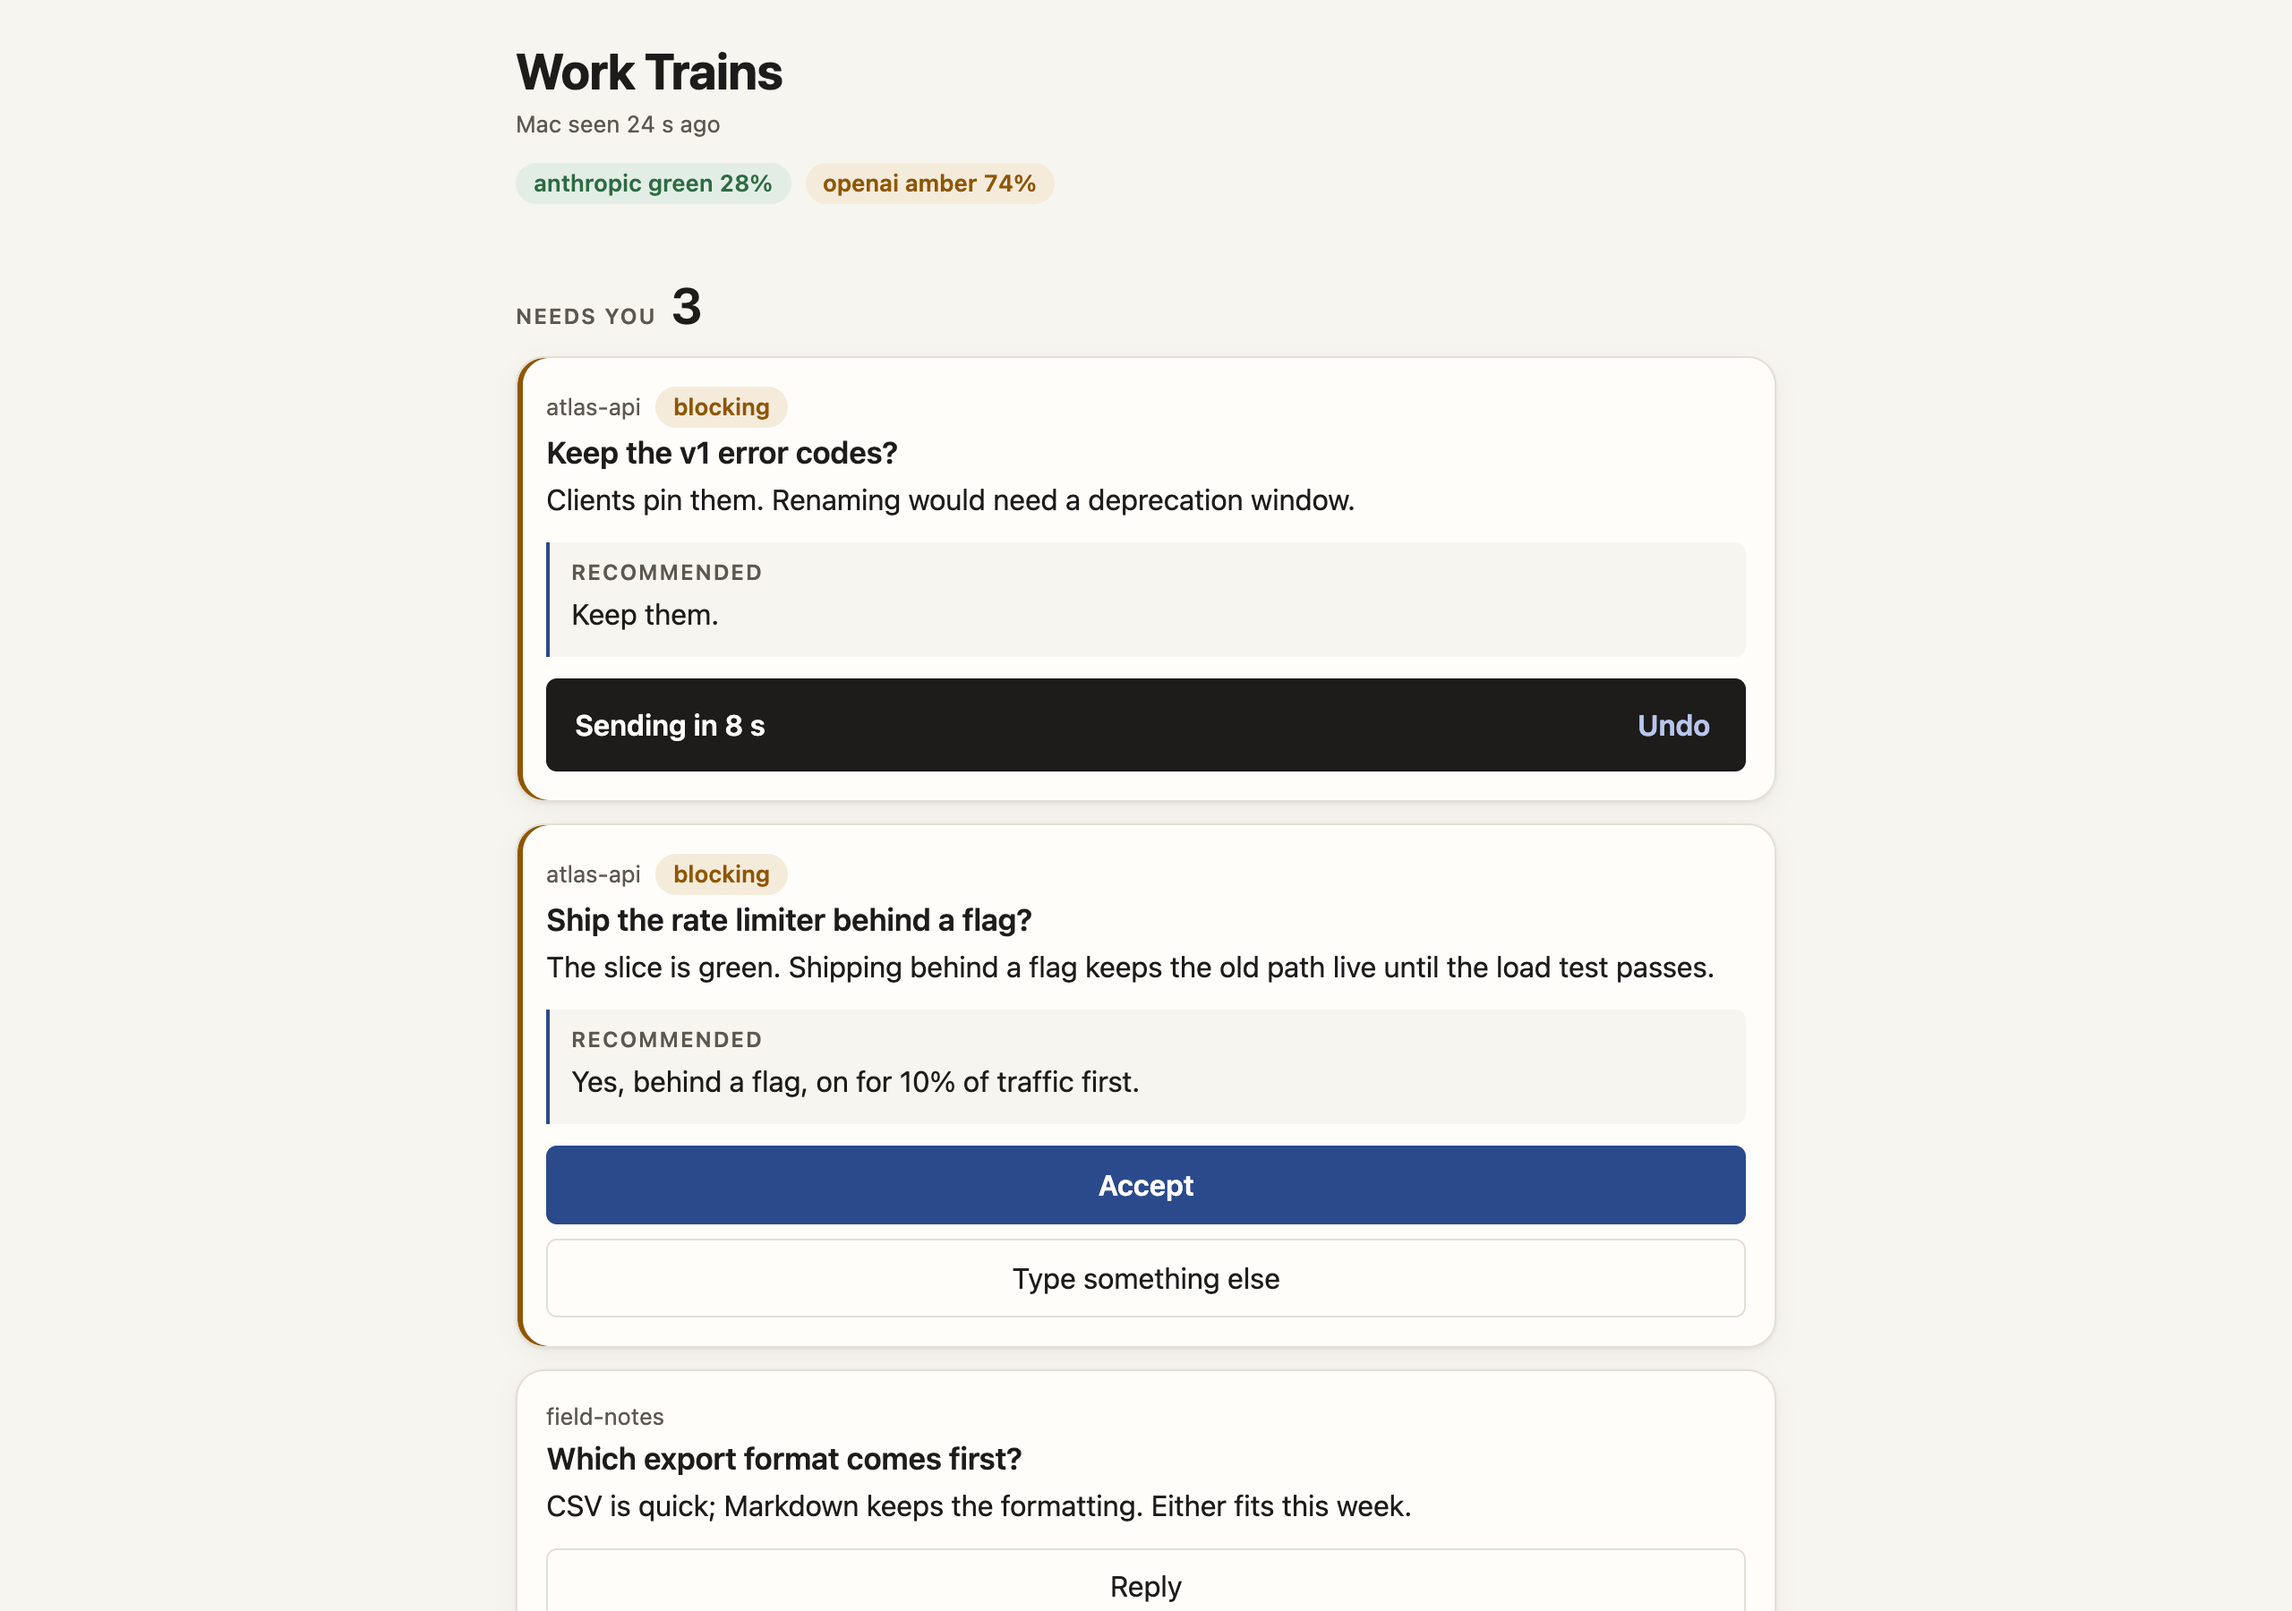
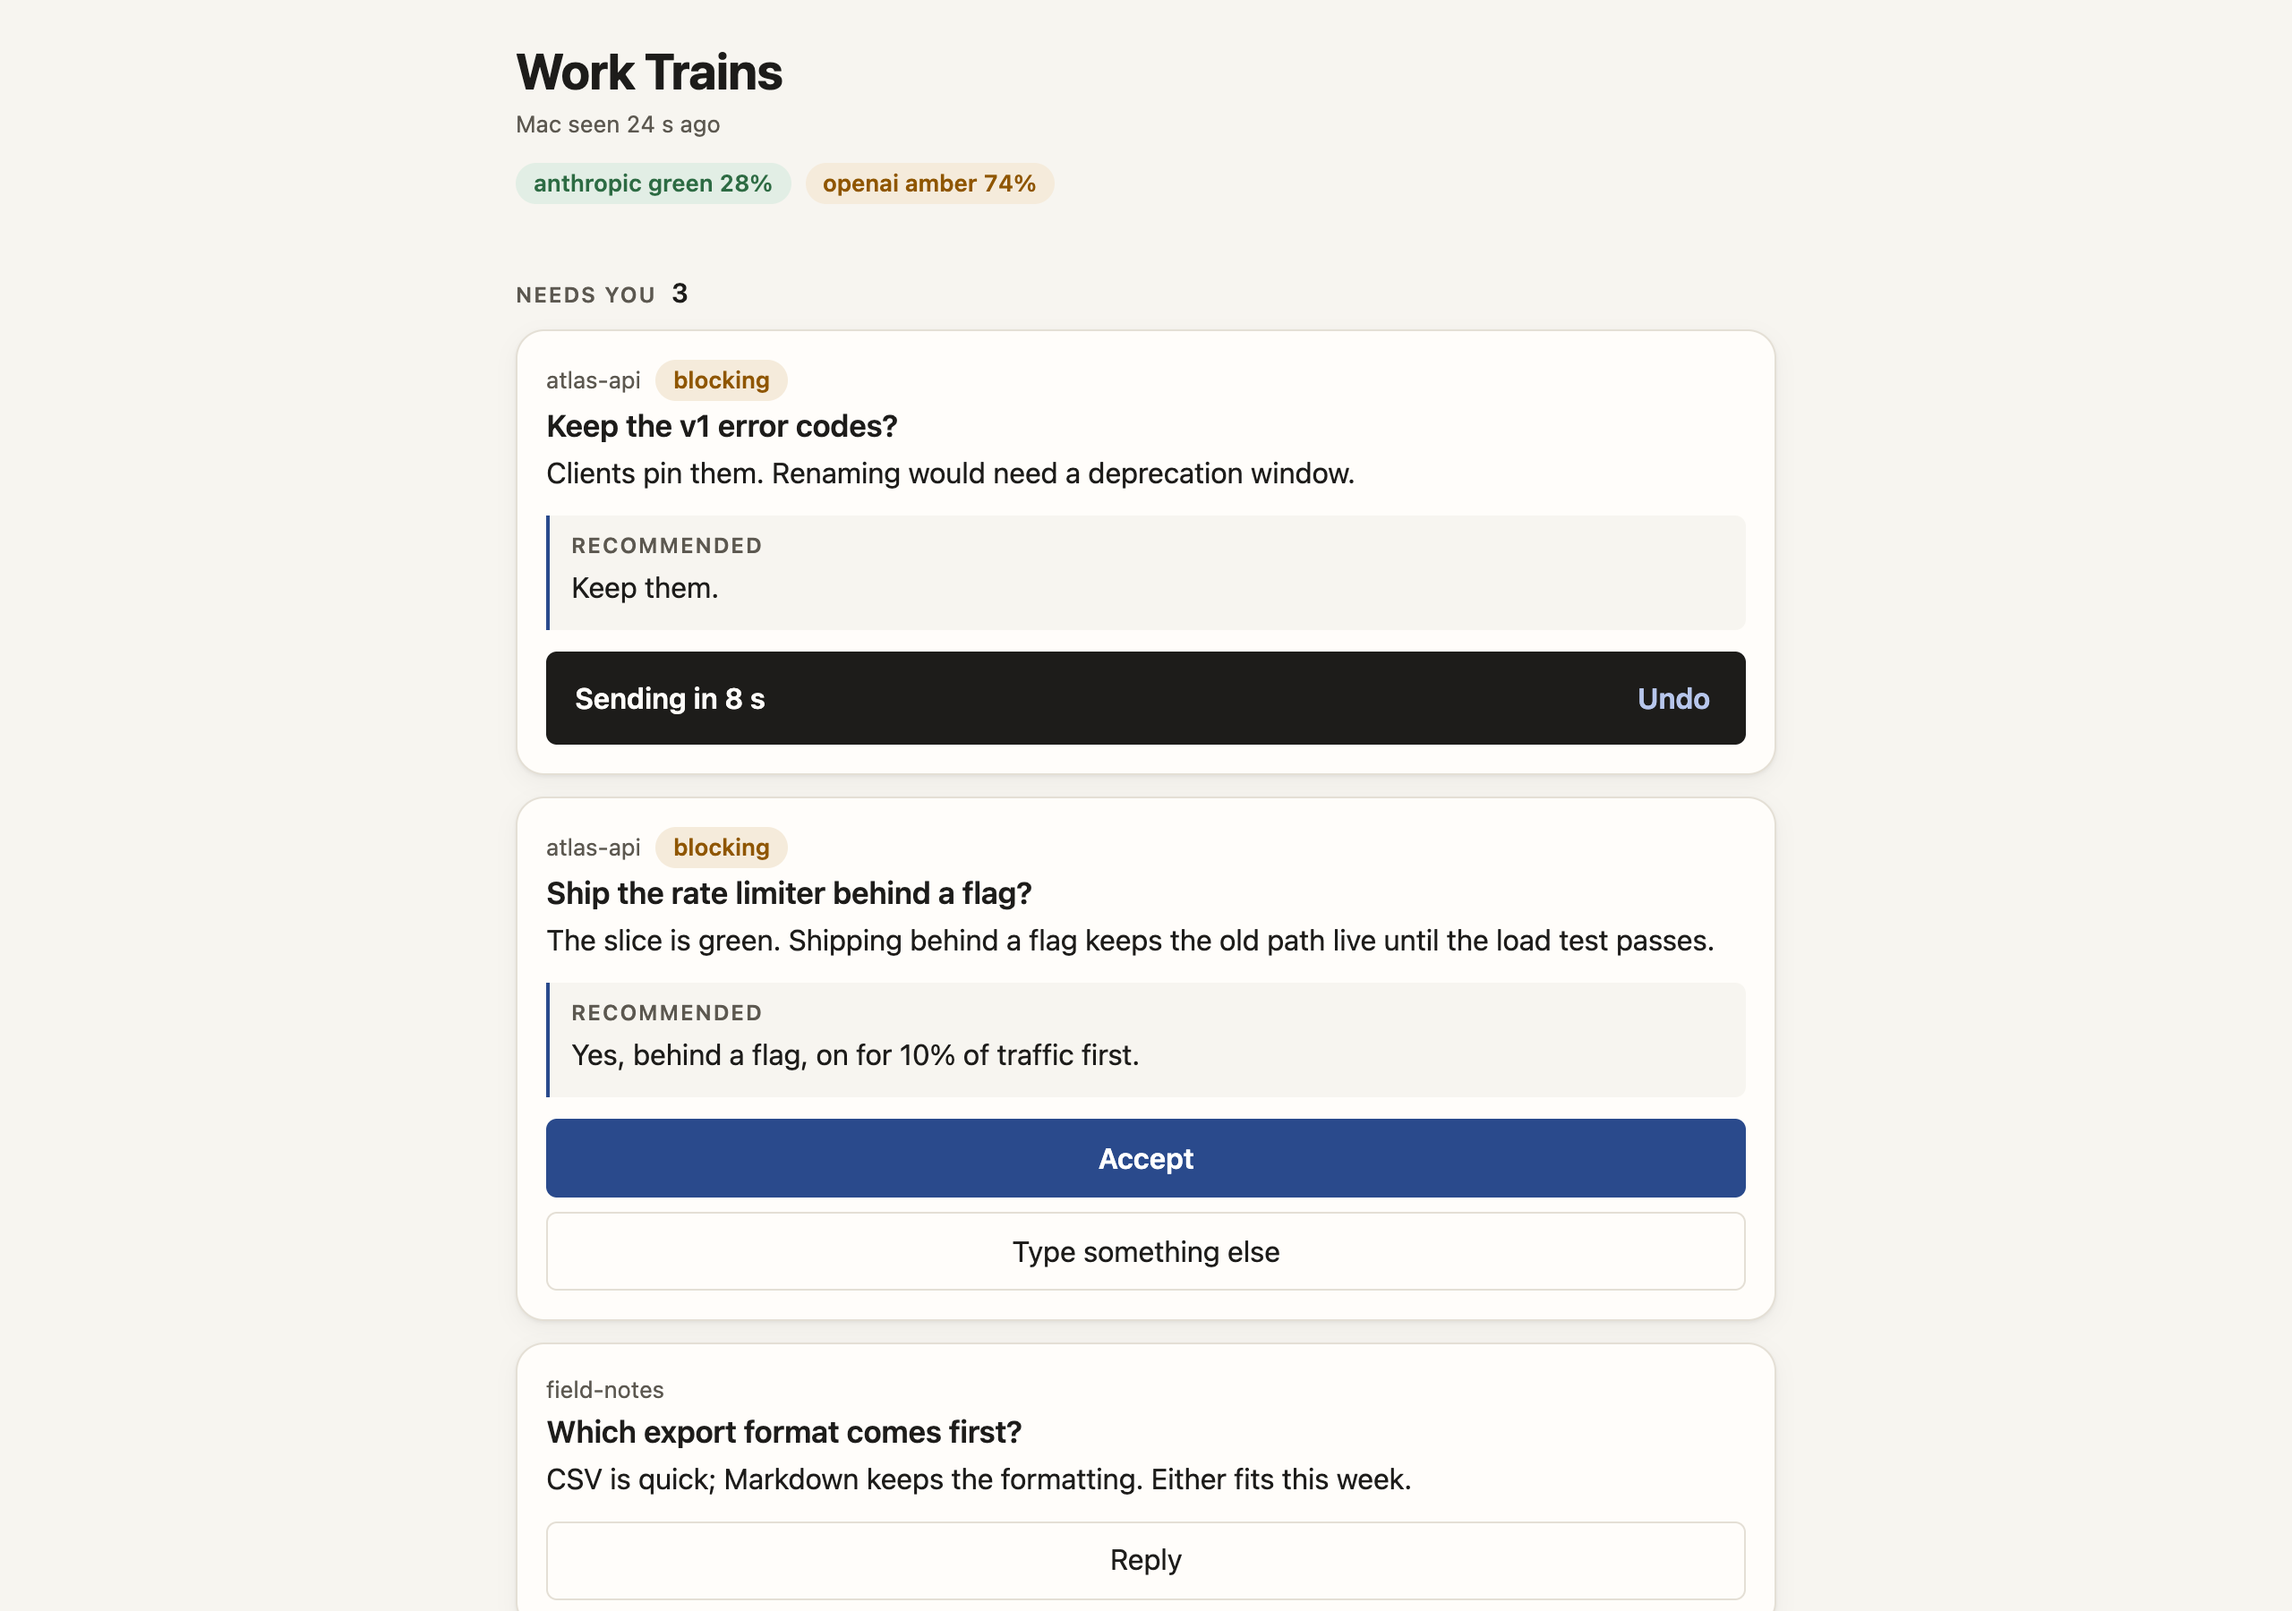
fix(remote): WT22-B review fixes: prune open Recent events, known-state classes only, calmer blocking card and Needs-you count
- Forget an open Recent events once its project leaves the summary (F1).
- A state the page does not know gets no state-* class on its pill or bar (F2).
- Test that every :root colour token appears in a contrast pair (F3).
- Drop the blocking card's amber edge (the blocking pill says it) and size the
  Needs-you count to sit with its label. Regenerated the after/ screenshots.

Changed region(s): [[0.2188, 0.1556, 0.7812, 0.9956]]

diff --git a/remote/worker/test/ui-page.test.ts b/remote/worker/test/ui-page.test.ts
@@ -132,3 +132,34 @@ test("Recent events opened by the owner stay open across the next re-render", as
   assert.ok(reopened);
   assert.equal(reopened.open, true);
 });
+
+test("an open Recent events is forgotten once its project leaves the summary, so it comes back closed", async () => {
+  const summary = summaryWithProject();
+  const project = summary.projects[0];
+  let returned: FakeNode | undefined;
+  await pageShowing(summary, PAGE_ORIGIN, (document) => {
+    const rerender = () => document.getElementById("hidden-toggle").dispatch("click");
+    const [events] = document.getElementById("project-list").findAll(byTag("details"));
+    events.open = true;
+    events.dispatch("toggle");
+    // The page keeps the summary it was served, so changing its projects and re-rendering stands in
+    // for a poll that no longer carries the project, then one that carries it again.
+    summary.projects = [];
+    rerender();
+    summary.projects = [project];
+    rerender();
+    [returned] = document.getElementById("project-list").findAll(byTag("details"));
+  });
+  assert.ok(returned);
+  assert.equal(returned.open, false);
+});
+
+test("a project state the page does not know gets no state class on its pill or progress bar", async () => {
+  const summary = summaryWithProject();
+  summary.projects[0].state = "rebooting";
+  const projects = (await pageShowing(summary)).getElementById("project-list");
+  const pill = projects.findAll((node) => classOf(node)?.startsWith("pill") ?? false);
+  const progress = projects.findAll((node) => classOf(node)?.startsWith("progress") ?? false);
+  assert.deepEqual([...pill, ...progress].map(classOf), ["pill", "progress"]);
+  assert.equal(pill[0].textContent, "rebooting");
+});

diff --git a/remote/worker/public/app.js b/remote/worker/public/app.js
@@ -291,7 +291,7 @@ function questionCard({ projectName, question }) {
   const headingId = `q-${question.id}`;
   return el(
     "article",
-    { class: `card question${question.blocking ? " blocking" : ""}`, "aria-labelledby": headingId },
+    { class: "card question", "aria-labelledby": headingId },
     el("p", { class: "eyebrow" }, projectName, question.blocking ? el("span", { class: "badge" }, "blocking") : null),
     el("h3", { id: headingId }, question.subject),
     questionBody(question),
@@ -454,6 +454,8 @@ function noteLine(key) {
 }
 
 function renderProjects(projects) {
+  const keys = new Set(projects.map((project) => project.key));
+  for (const key of page.openEvents) if (!keys.has(key)) page.openEvents.delete(key);
   const { shown, hidden } = model.partitionByVisibility(projects);
   setChildren(
     $("project-list"),
@@ -477,7 +479,7 @@ function projectCard(project) {
       "div",
       { class: "title-row" },
       el("h3", { id: headingId }, project.name),
-      el("span", { class: `pill state-${project.state}` }, model.stateLabel(project.state)),
+      el("span", { class: `pill ${model.stateClass(project.state)}`.trim() }, model.stateLabel(project.state)),
       project.hidden ? unhideButton(project) : overflowMenu(project),
     ),
     project.state_reason ? el("p", { class: "reason" }, project.state_reason) : null,
@@ -509,7 +511,7 @@ function progressLine(progress, state) {
   if (text === null) return null;
   return el(
     "div",
-    { class: `progress state-${state}` },
+    { class: `progress ${model.stateClass(state)}`.trim() },
     el("progress", {
       max: String(progress.total),
       value: String(Math.min(progress.done, progress.total)),

diff --git a/remote/worker/test/ui-model.test.ts b/remote/worker/test/ui-model.test.ts
@@ -164,6 +164,12 @@ test("CI lines name the run and its outcome", () => {
   assert.equal(model.ciLine({ ...run, workflow: "" }), "example/app: failure");
 });
 
+test("only a known state has a state class", () => {
+  for (const state of ["needs_you", "working", "paused", "failed", "done", "idle"])
+    assert.equal(model.stateClass(state), `state-${state}`);
+  for (const state of ["rebooting", "", "toString", "__proto__"]) assert.equal(model.stateClass(state), "", state);
+});
+
 test("a CI run's tone is red only for a real failure, and neutral for anything without an outcome", () => {
   const tone = (status: string, conclusion: string | null) =>
     model.ciTone({ repo: "example/app", workflow: "ci", status, conclusion, url: null, at: "" });

diff --git a/remote/worker/test/ui-contrast.test.ts b/remote/worker/test/ui-contrast.test.ts
@@ -72,6 +72,12 @@ test("every colour pair the page draws meets its WCAG AA minimum", (t) => {
     assert.ok(row.ratio >= row.minimum, `${row.fg} on ${row.bg} is ${row.ratio.toFixed(2)}:1, below ${row.minimum}:1`);
 });
 
+test("every colour token in :root is checked in at least one pair", () => {
+  const paired = new Set(PAIRS.flatMap(([fg, bg]) => [fg, bg]));
+  const unpaired = [...rootColours().keys()].filter((name) => !paired.has(name));
+  assert.deepEqual(unpaired, [], "add a pair for each new colour token");
+});
+
 test("the contrast formula matches WCAG's reference values", () => {
   assert.equal(contrast("#000000", "#ffffff"), 21);
   assert.equal(contrast("#ffffff", "#ffffff"), 1);

diff --git a/remote/worker/public/app.css b/remote/worker/public/app.css
@@ -119,9 +119,8 @@ h2 {
   margin: var(--space-6) 0 var(--space-3);
 }
 
-/* The Needs-you count is the one big number on the page. */
 #needs-you-count {
-  font-size: var(--text-headline);
+  font-size: 0.9375rem;
   letter-spacing: 0;
   color: var(--ink);
 }
@@ -248,12 +247,6 @@ p {
   box-shadow: var(--shadow-card);
   padding: var(--space-4);
   margin: 0 0 var(--space-3);
-}
-
-.question.blocking {
-  box-shadow:
-    inset 3px 0 0 var(--needs),
-    var(--shadow-card);
 }
 
 .eyebrow {

diff --git a/remote/worker/public/model.js b/remote/worker/public/model.js
@@ -104,6 +104,11 @@ export function stateLabel(state) {
   return STATE_LABELS[state] ?? state;
 }
 
+/** A known state's tone class; an unknown state gets none. */
+export function stateClass(state) {
+  return Object.hasOwn(STATE_LABELS, state) ? `state-${state}` : "";
+}
+
 export function runKindLabel(run) {
   return run.kind === "none" ? "no run" : run.kind;
 }

diff --git a/CHANGELOG.md b/CHANGELOG.md
@@ -5,7 +5,7 @@
 - remote: the Work Trains page is restyled, light only (WT22-B): a warm off-white ground, one accent for Accept,
   Send, Retry, links and the focus ring, and colour only for status (a dot and a word on a tint per project, the
   progress bar in the project's state colour, a dot per CI run that is red only for a real failure). The Needs-you
-  count is a large plain number (`3`, not `(3)`); beside a recommendation the second button reads **Type something
+  count is a plain number (`3`, not `(3)`); beside a recommendation the second button reads **Type something
   else**; the undo window is a dark bar inside its card; a stale Mac is amber, not red. Projects sit as rows on one
   grouped surface. **Recent events** stay open across the 15 s refresh. The dark scheme is gone. The page fills the
   iPhone's safe area (`viewport-fit=cover`), sets its theme colour, and has a 180x180 `apple-touch-icon.png` for the
